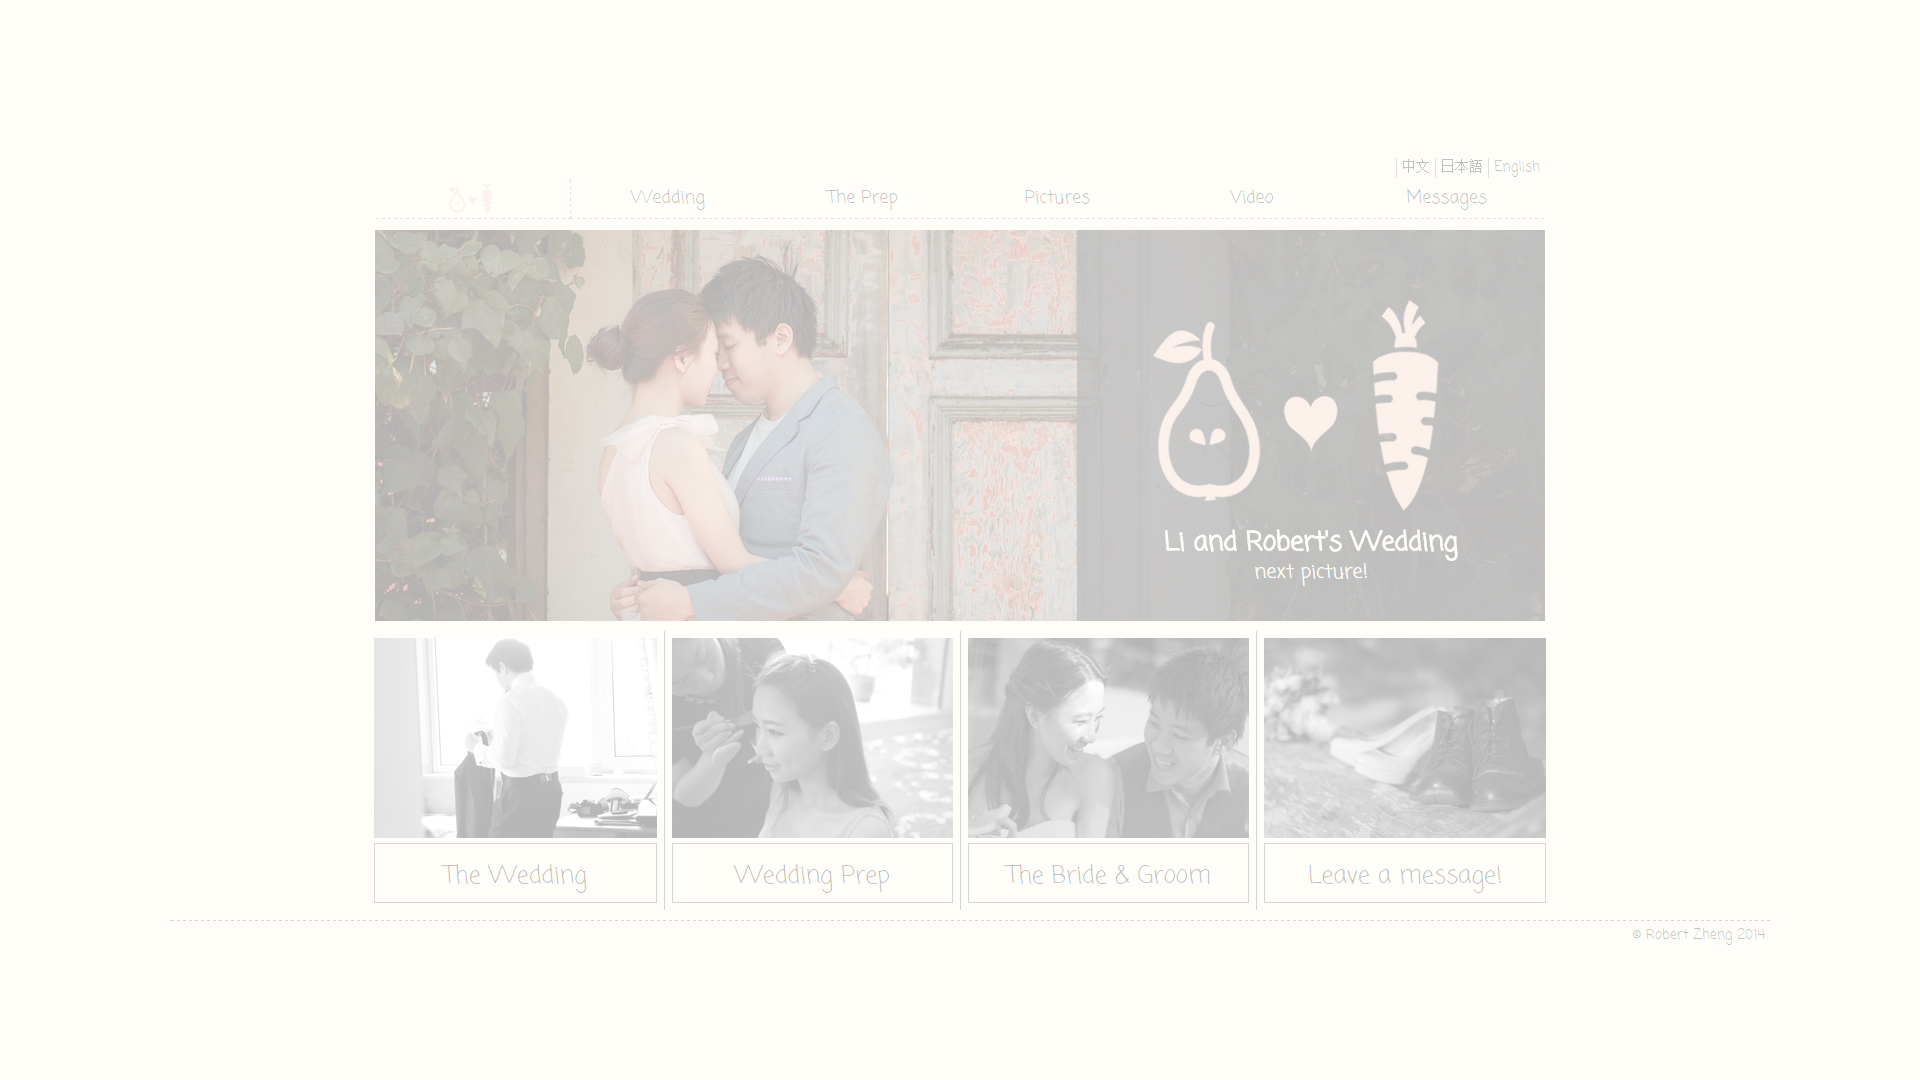
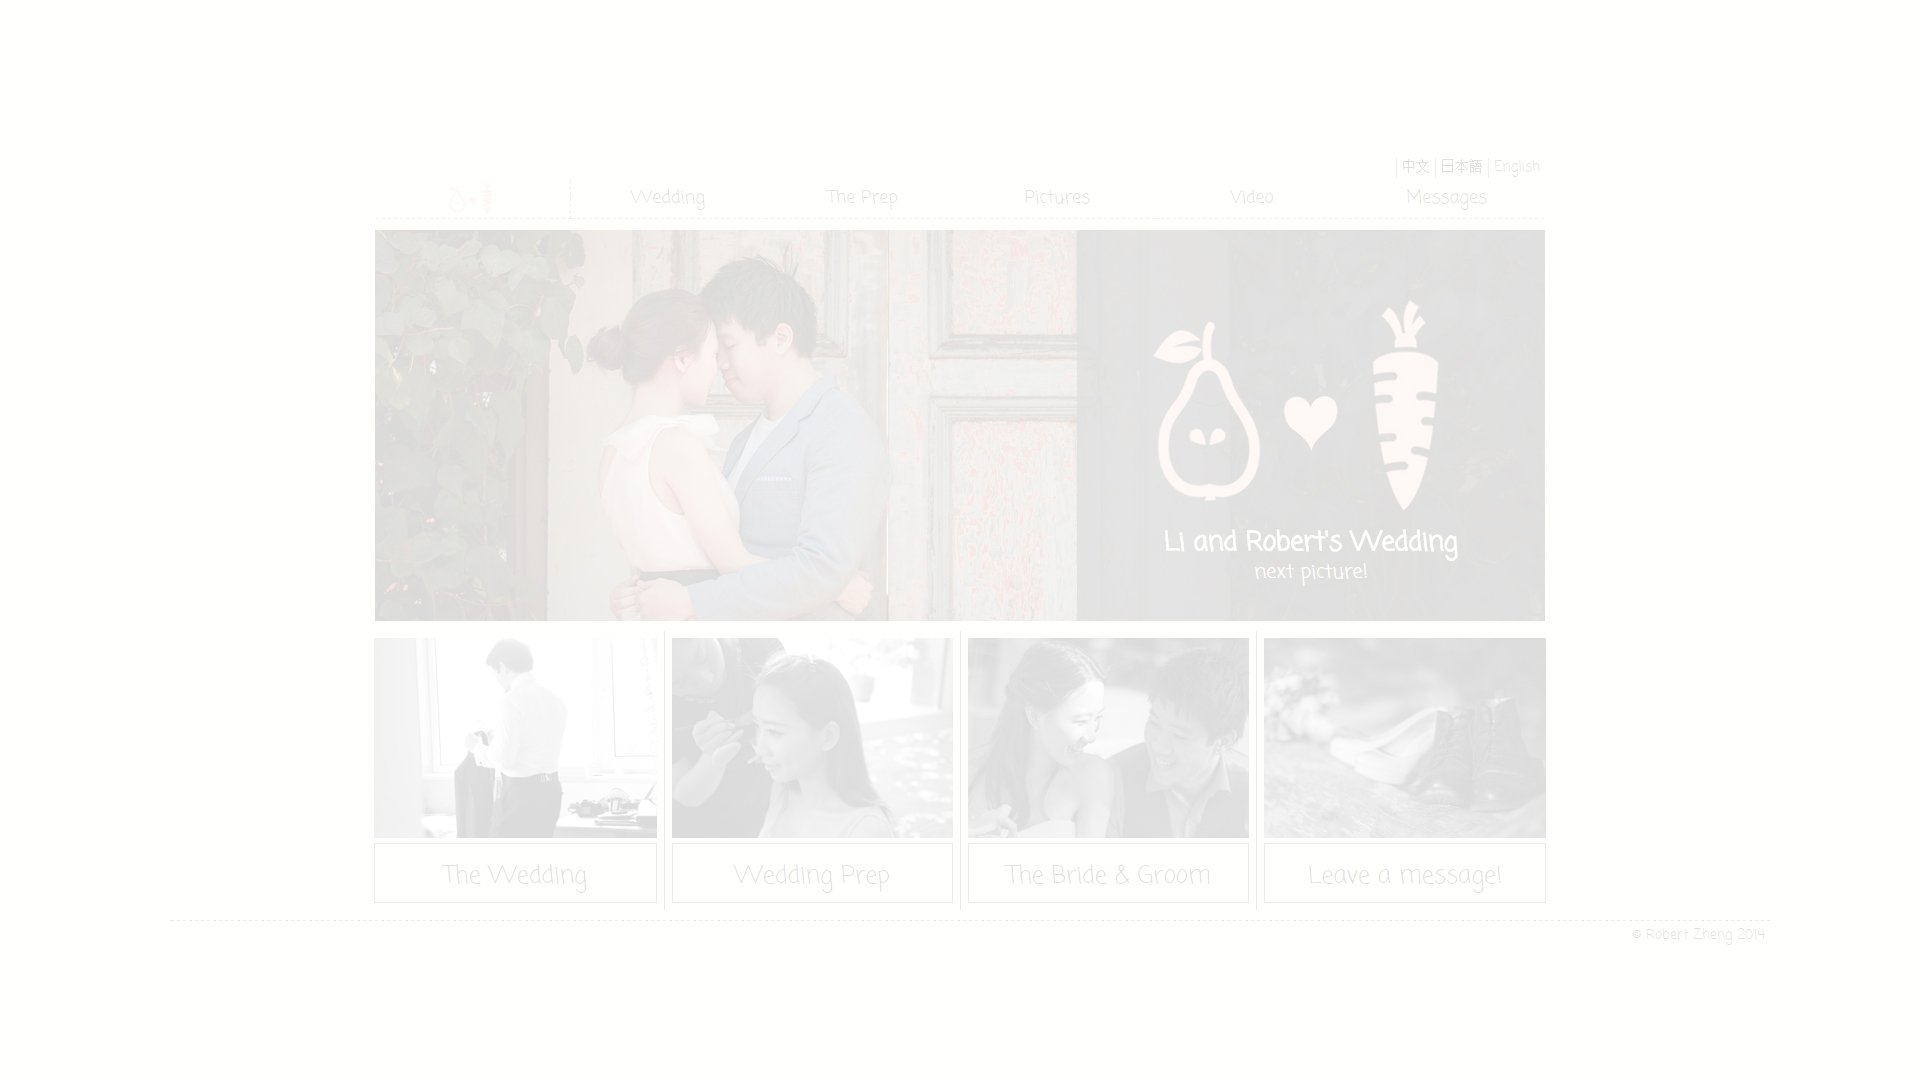
September 9 - Added background-image switch functionality on about section

Changed region(s): [[0.1875, 0.2139, 0.8125, 0.7944], [0.75, 0.7944, 0.7812, 0.825]]

diff --git a/js/links.js b/js/links.js
@@ -20,4 +20,20 @@ $(function () {
     showContact('#icon3', '#msg3');
     showContact('#icon4', '#msg4');
     
+    function changeAbout(link, show, image, color) {
+        var $link = $(link);
+        var $show = $(show);
+        
+        $link.click(function(){
+            $('#about').css('background-image', "url('" + image + "')");
+            $('.about-nav li').css('color', color)
+            
+
+        });
+    }
+    
+    changeAbout('#about1', 'show', 'img/background-test.jpg', '#acacae');
+    changeAbout('#about2', 'show', 'img/dpwedding-bg.jpg', 'black');
+    changeAbout('#about3', 'show', 'img/swagwise-bg.jpg', 'black');
+    
 });

diff --git a/index.html b/index.html
@@ -35,9 +35,9 @@
 
 	<section id="about" data-type="background" data-speed="7" class="pages">     
 		<ul class="about-nav">
-		    <li class="about-btn">About Me</li>
-		    <li class="about-btn">Project : &nbsp;Wedding</li>
-		    <li class="about-btn">Project : &nbsp;Swagwise</li>
+		    <li id="about1" class="about-btn">About Me</li>
+		    <li id="about2" class="about-btn">Project : &nbsp;Wedding</li>
+		    <li id="about3" class="about-btn">Project : &nbsp;Swagwise</li>
 		</ul>
 	</section>
 

diff --git a/css/styles.css b/css/styles.css
@@ -160,7 +160,6 @@ a:link, a:hover, a:active, a:visited {
 	text-align: center; 
 	top: 500px; 
 	width: 100%; 
-	color: black;
 	font-size: 4em;
 }
 
@@ -199,7 +198,7 @@ a:link, a:hover, a:active, a:visited {
     -webkit-align-items: center;
     -ms-flex-align: center;
     align-items: center;
-    color: #a1a1a3;
+    color: #acacae;
 }
 
 .about-nav li:hover {
